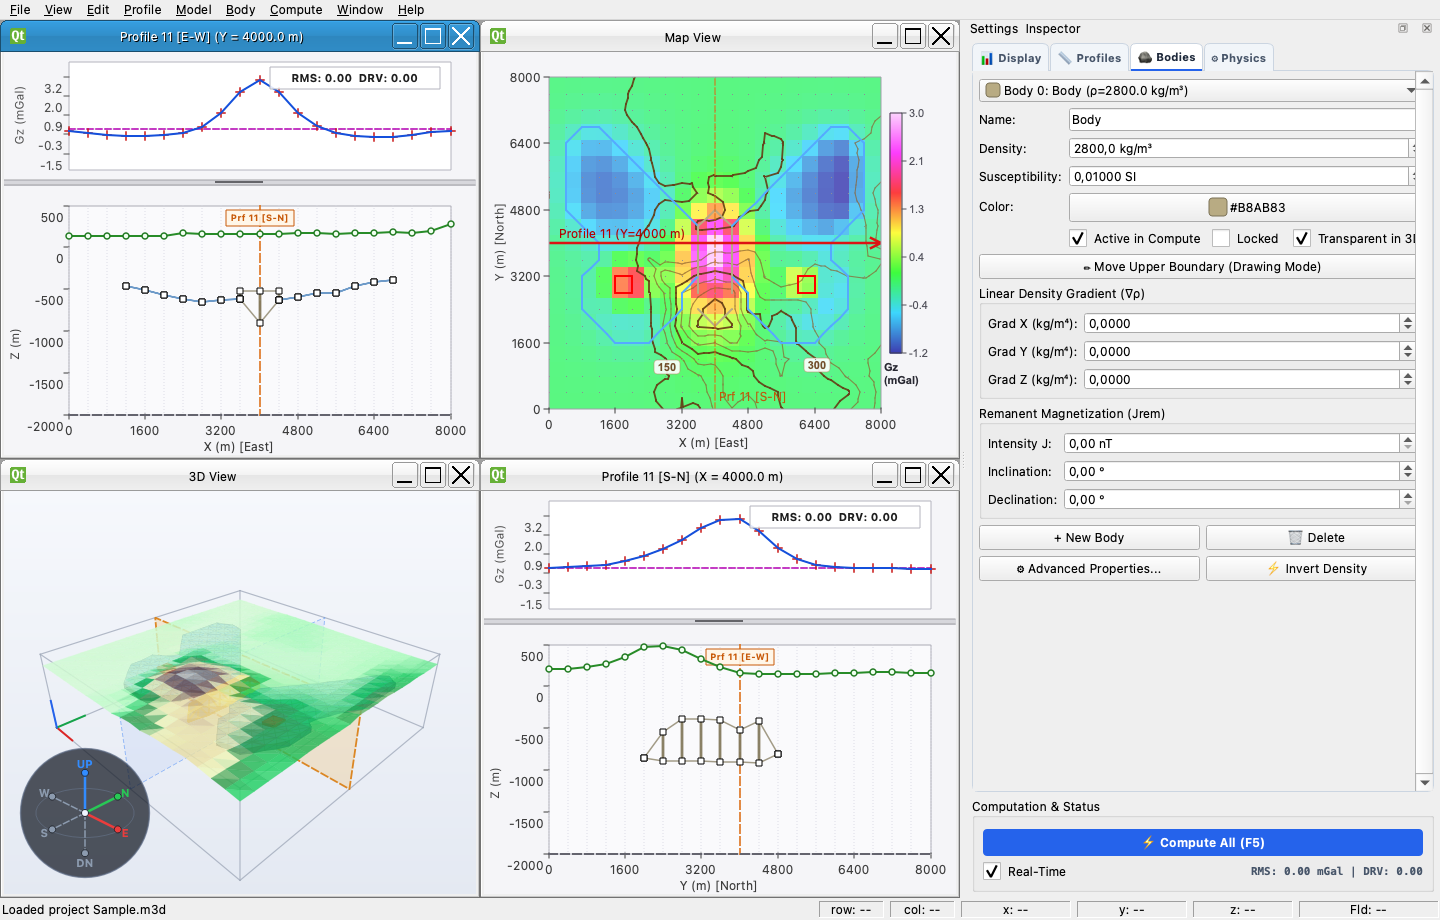
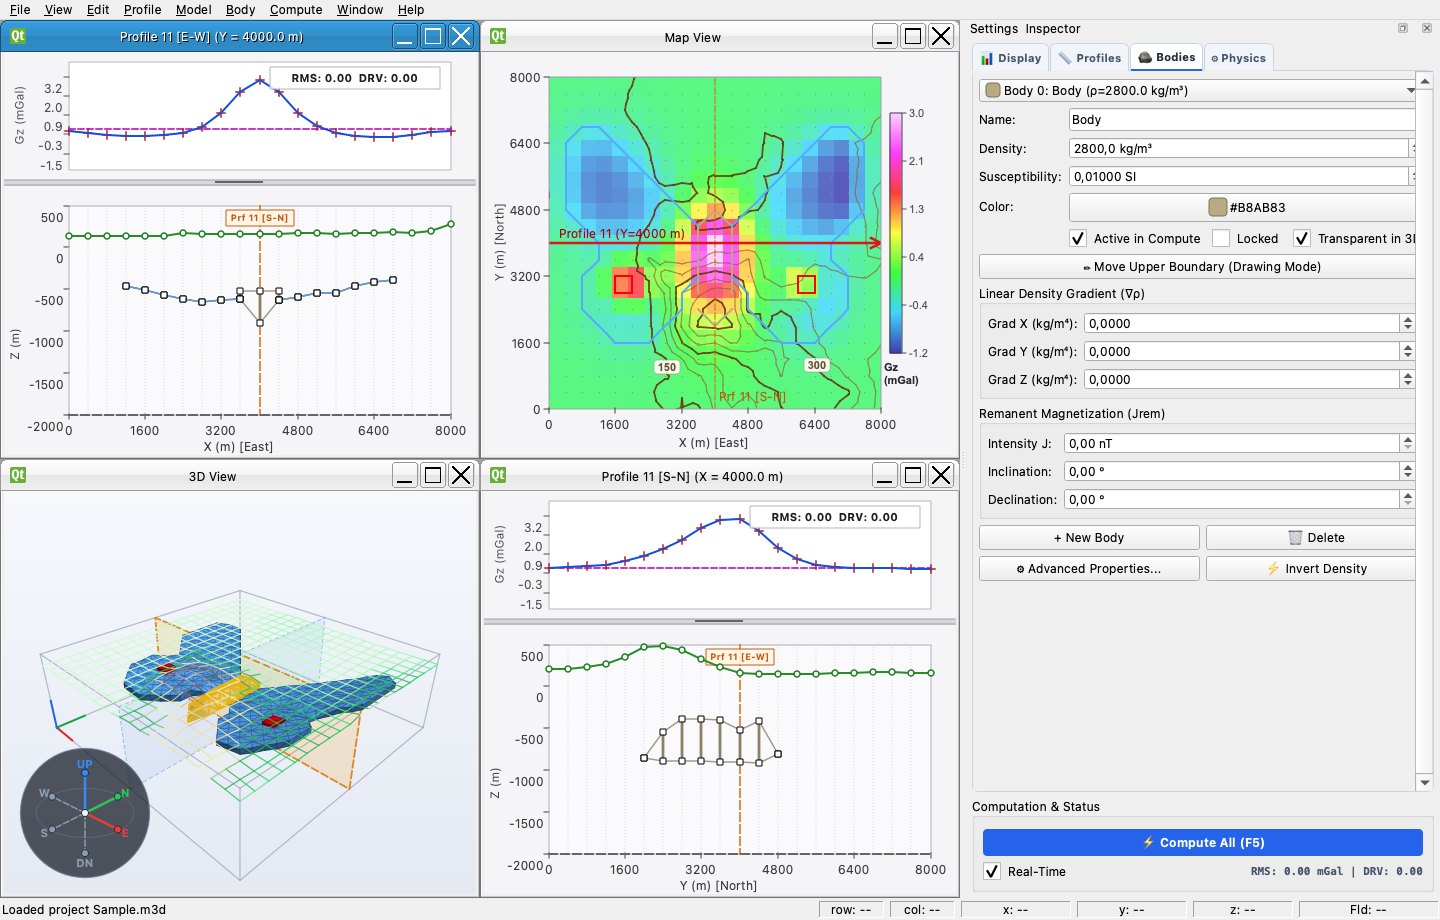
feat(gui): default 3D view relief surface to wireframe mode

Changed region(s): [[0.0312, 0.6391, 0.3125, 0.8826]]

diff --git a/tests/test_gui_document.cpp b/tests/test_gui_document.cpp
@@ -2315,25 +2315,25 @@ TEST_F(GuiDocumentTest, GL3DViewReliefColormapAndSurfaceWireframeModes) {
     ASSERT_NE(glv, nullptr);
     ASSERT_NE(sub3D, nullptr);
 
-    // 1. Verify default 3D relief settings
+    // 1. Verify default 3D relief settings (wireframe by default)
     EXPECT_TRUE(glv->showRelief());
-    EXPECT_EQ(glv->reliefMode(), GL3DView::ReliefMode::Surface);
+    EXPECT_EQ(glv->reliefMode(), GL3DView::ReliefMode::Wireframe);
 
     // 2. Direct setter and signal emission
     int signalCount = 0;
-    GL3DView::ReliefMode emittedMode = GL3DView::ReliefMode::Surface;
+    GL3DView::ReliefMode emittedMode = GL3DView::ReliefMode::Wireframe;
     QObject::connect(glv, &GL3DView::reliefModeChanged, [&](GL3DView::ReliefMode m) {
         emittedMode = m;
         ++signalCount;
     });
 
-    glv->setReliefMode(GL3DView::ReliefMode::Wireframe);
-    EXPECT_EQ(glv->reliefMode(), GL3DView::ReliefMode::Wireframe);
+    glv->setReliefMode(GL3DView::ReliefMode::Surface);
+    EXPECT_EQ(glv->reliefMode(), GL3DView::ReliefMode::Surface);
     EXPECT_EQ(signalCount, 1);
-    EXPECT_EQ(emittedMode, GL3DView::ReliefMode::Wireframe);
+    EXPECT_EQ(emittedMode, GL3DView::ReliefMode::Surface);
 
     // Setting same mode should not re-emit
-    glv->setReliefMode(GL3DView::ReliefMode::Wireframe);
+    glv->setReliefMode(GL3DView::ReliefMode::Surface);
     EXPECT_EQ(signalCount, 1);
 
     // 3. SettingsPane synchronization and controls
@@ -2349,13 +2349,13 @@ TEST_F(GuiDocumentTest, GL3DViewReliefColormapAndSurfaceWireframeModes) {
 
     EXPECT_TRUE(chkRelief->isChecked());
     EXPECT_TRUE(comboMode->isEnabled());
-    EXPECT_EQ(comboMode->currentData().toInt(), static_cast<int>(GL3DView::ReliefMode::Wireframe));
+    EXPECT_EQ(comboMode->currentData().toInt(), static_cast<int>(GL3DView::ReliefMode::Surface));
 
-    // Change combo to Surface via UI
-    int surfIdx = comboMode->findData(static_cast<int>(GL3DView::ReliefMode::Surface));
-    ASSERT_GE(surfIdx, 0);
-    comboMode->setCurrentIndex(surfIdx);
-    EXPECT_EQ(glv->reliefMode(), GL3DView::ReliefMode::Surface);
+    // Change combo to Wireframe via UI
+    int wireIdx = comboMode->findData(static_cast<int>(GL3DView::ReliefMode::Wireframe));
+    ASSERT_GE(wireIdx, 0);
+    comboMode->setCurrentIndex(wireIdx);
+    EXPECT_EQ(glv->reliefMode(), GL3DView::ReliefMode::Wireframe);
     EXPECT_EQ(signalCount, 2);
 
     // Toggle relief off via checkbox

diff --git a/gui/src/SettingsPane.cpp b/gui/src/SettingsPane.cpp
@@ -498,6 +498,8 @@ void SettingsPane::setupDisplayTab(QWidget *container) {
     m_combo3DReliefMode = new QComboBox(box3DToggles);
     m_combo3DReliefMode->addItem(tr("Surface"), static_cast<int>(GL3DView::ReliefMode::Surface));
     m_combo3DReliefMode->addItem(tr("Wireframe"), static_cast<int>(GL3DView::ReliefMode::Wireframe));
+    int defaultWireIdx = m_combo3DReliefMode->findData(static_cast<int>(GL3DView::ReliefMode::Wireframe));
+    if (defaultWireIdx >= 0) m_combo3DReliefMode->setCurrentIndex(defaultWireIdx);
     reliefLayout->addWidget(m_chk3DRelief);
     reliefLayout->addWidget(m_combo3DReliefMode);
 

diff --git a/gui/include/mod3d_gui/GL3DView.h b/gui/include/mod3d_gui/GL3DView.h
@@ -234,7 +234,7 @@ private:
     bool m_showBottom{false};
     bool m_showOuterFacets{false};
     bool m_showRelief{true};
-    ReliefMode m_reliefMode{ReliefMode::Surface};
+    ReliefMode m_reliefMode{ReliefMode::Wireframe};
     bool m_showProfilePlane{true};
     bool m_showBoundingBox{true};
     bool m_showOrientationIndicator{true};
